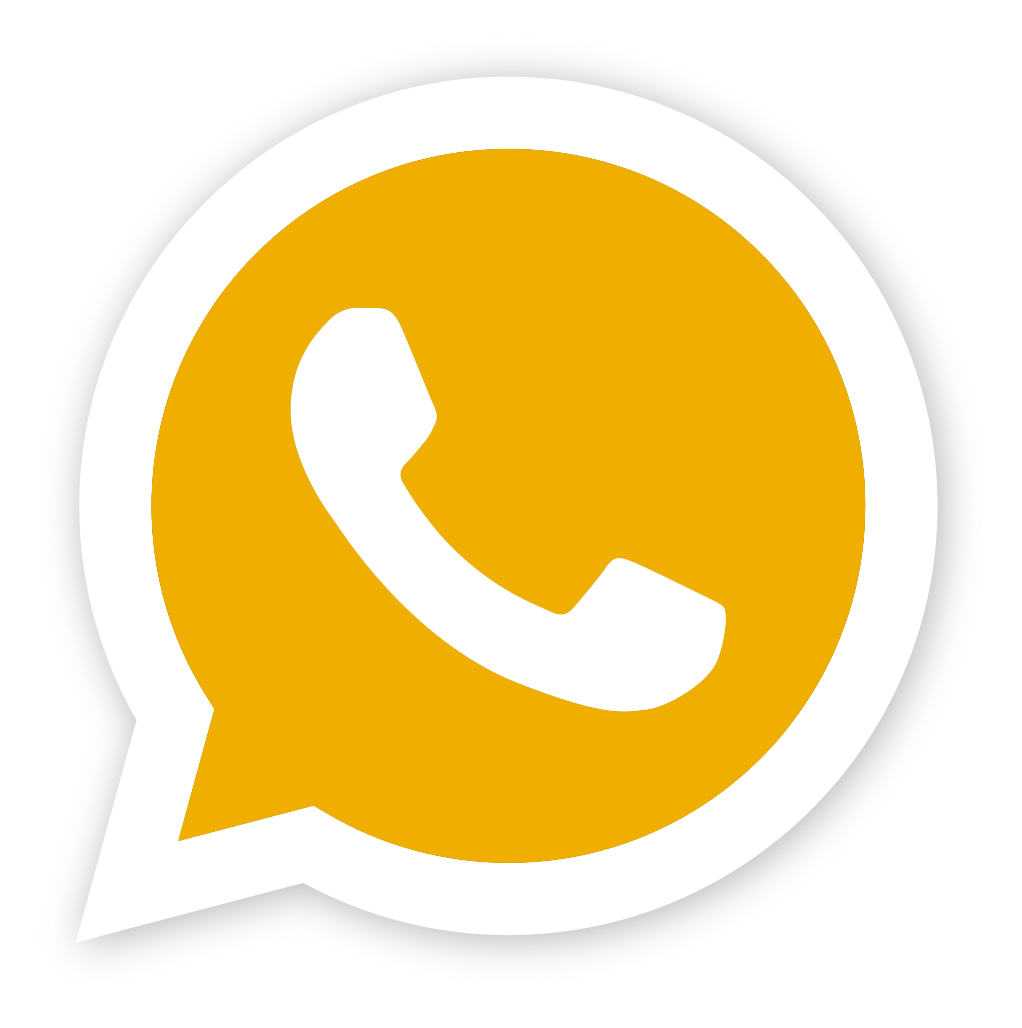
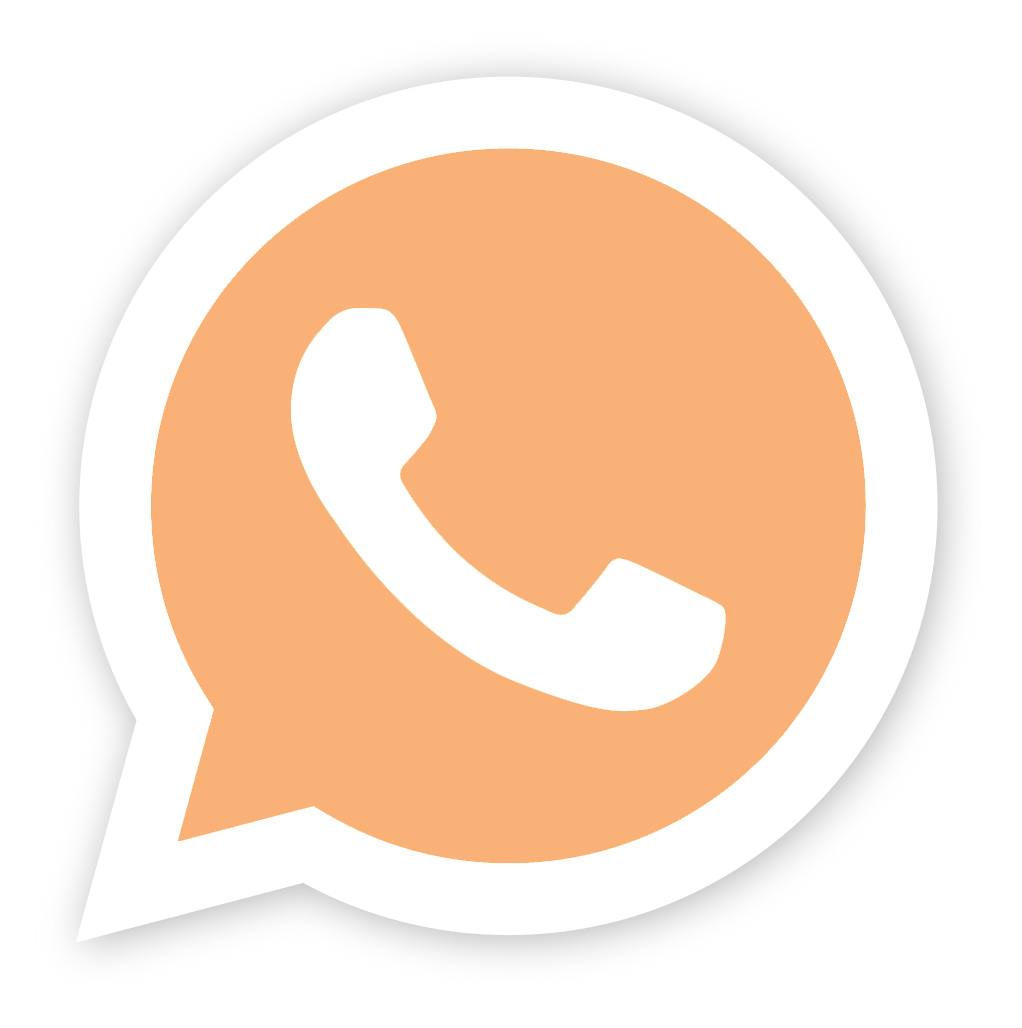
Color Pallete Updated

diff --git a/src/components/navbar/NavbarStyles.css b/src/components/navbar/NavbarStyles.css
@@ -181,7 +181,13 @@
     color: #fff;
     margin: -15px;
     transition: all 0.5s;
-    margin-top: -79px;
+    margin-top: -106px;
+  }
+
+  .navbar img {
+    width: 197px;
+    height: 62px;
+    margin-left: 23px;
   }
 }
 
@@ -263,7 +269,13 @@
     color: #fff;
     margin: -15px;
     transition: all 0.5s;
-    margin-top: -40px;
+    margin-top: -100px;
+  }
+
+  .navbar img {
+    width: 250px;
+    height: 80px;
+    margin-left: 23px;
   }
 }
 
@@ -319,6 +331,22 @@
     position: relative;
     justify-content: center;
   }
+
+  .navbar .logo {
+    display: flex;
+    align-items: center;
+    color: #fff;
+    margin: -15px;
+    transition: all 0.5s;
+    margin-top: -100px;
+    margin-left: 128px;
+  }
+
+  .navbar img {
+    width: 200px;
+    height: 61px;
+    margin-left: 52px;
+  }
 }
 
 @media screen and (min-width: 700px) and (max-width: 802px) {
@@ -372,6 +400,22 @@
     transition: all 0.5s;
     position: relative;
     justify-content: center;
+  }
+
+  .navbar .logo {
+    display: flex;
+    align-items: center;
+    color: #fff;
+    margin: -15px;
+    transition: all 0.5s;
+    margin-top: -105px;
+    margin-left: 128px;
+  }
+
+  .navbar img {
+    width: 200px;
+    height: 61px;
+    margin-left: 93px;
   }
 }
 
@@ -428,6 +472,21 @@
     position: relative;
     justify-content: center;
   }
+
+  .navbar .logo {
+    display: flex;
+    align-items: center;
+    color: #fff;
+    margin: -15px;
+    transition: all 0.5s;
+    margin-top: 28px;
+  }
+
+  .navbar img {
+    width: 250px;
+    height: 80px;
+    margin-left: 23px;
+  }
 }
 
 @media screen and (min-width: 1025px) and (max-width: 1250px) {
@@ -482,6 +541,21 @@
     transition: all 0.5s;
     position: relative;
     justify-content: center;
+  }
+
+  .navbar .logo {
+    display: flex;
+    align-items: center;
+    color: #fff;
+    margin: -15px;
+    transition: all 0.5s;
+    margin-top: 28px;
+  }
+
+  .navbar img {
+    width: 294px;
+    height: 87px;
+    margin-left: 40px;
   }
 }
 

diff --git a/src/components/proposta/PropostaStyles.css b/src/components/proposta/PropostaStyles.css
@@ -104,8 +104,8 @@
     font-family: "Roboto", sans-serif;
     padding: 0.7rem 1.5rem;
     margin: 1rem 0;
-    background-color: #dfac1c;
-    border: 1px solid #dfac1c;
+    background-color: #e7af7a;
+    border: 1px solid #e7af7a;
     color: #f8f8f8;
     font-size: 1.2rem;
     font-weight: 600;
@@ -169,8 +169,8 @@
     font-family: "Roboto", sans-serif;
     padding: 0.7rem 1.5rem;
     margin: 1rem 0;
-    background-color: #dfac1c;
-    border: 1px solid #dfac1c;
+    background-color: #e7af7a;
+    border: 1px solid #e7af7a;
     color: #f8f8f8;
     font-size: 1.2rem;
     font-weight: 600;
@@ -234,8 +234,8 @@
     font-family: "Roboto", sans-serif;
     padding: 0.7rem 1.5rem;
     margin: 1rem 0;
-    background-color: #dfac1c;
-    border: 1px solid #dfac1c;
+    background-color: #e7af7a;
+    border: 1px solid #e7af7a;
     color: #f8f8f8;
     font-size: 1.2rem;
     font-weight: 600;
@@ -299,8 +299,8 @@
     font-family: "Roboto", sans-serif;
     padding: 0.7rem 1.5rem;
     margin: 1rem 0;
-    background-color: #dfac1c;
-    border: 1px solid #dfac1c;
+    background-color: #e7af7a;
+    border: 1px solid #e7af7a;
     color: #f8f8f8;
     font-size: 1.2rem;
     font-weight: 600;
@@ -364,8 +364,8 @@
     font-family: "Roboto", sans-serif;
     padding: 0.7rem 1.5rem;
     margin: 1rem 0;
-    background-color: #dfac1c;
-    border: 1px solid #dfac1c;
+    background-color: #e7af7a;
+    border: 1px solid #e7af7a;
     color: #f8f8f8;
     font-size: 1.2rem;
     font-weight: 600;
@@ -429,8 +429,8 @@
     font-family: "Roboto", sans-serif;
     padding: 0.7rem 1.5rem;
     margin: 1rem 0;
-    background-color: #dfac1c;
-    border: 1px solid #dfac1c;
+    background-color: #e7af7a;
+    border: 1px solid #e7af7a;
     color: #f8f8f8;
     font-size: 1.2rem;
     font-weight: 600;

diff --git a/src/components/navbar/Navbar.js b/src/components/navbar/Navbar.js
@@ -1,6 +1,7 @@
 import React, { useState } from 'react'
 import menuicon from '../../assets/menu.png'
 import './NavbarStyles.css'
+import mainLogo from '../../assets/Logotipo_Metajuris.png'
 
 import { Link } from 'react-router-dom'
 
@@ -13,9 +14,7 @@ const Navbar = () => {
         <div name='top' className='navbar'>
             <div className="container">
                 <div className="logo">
-                    <h1 className='mainTitle'>METAJURIS</h1>
-                    <div class="mainLine"></div>
-                    <h3 className='mainSubtitle'>ADVOCACIA E CONSULTORIA</h3>
+                    <img width="400" height="110" src={mainLogo} alt="Main Logo"></img>
                 </div>
 
                 <ul className={nav ? 'nav-menu active' : 'nav-menu'}>

diff --git a/src/index.css b/src/index.css
@@ -6,7 +6,7 @@
 }
 
 span {
-  color: #dfac1c;
+  color: #e7af7a;
   transition: all 0.5s;
 }
 
@@ -72,8 +72,8 @@ button {
   font-family: "Roboto", sans-serif;
   padding: 0.7rem 1.5rem;
   margin: 1rem 0;
-  background-color: #dfac1c;
-  border: 1px solid #dfac1c;
+  background-color: #e7af7a;
+  border: 1px solid #e7af7a;
   color: #f8f8f8;
   font-size: 1.2rem;
   font-weight: 600;

diff --git a/src/components/whatsappButton/whatsappButtonStyles.css b/src/components/whatsappButton/whatsappButtonStyles.css
@@ -1,5 +1,5 @@
 .btn-whatsapp-pulse {
-  background: #dfac1c;
+  background: #e7af7a;
   color: white;
   position: fixed;
   bottom: 20px;
@@ -22,7 +22,7 @@
 
 @keyframes pulse {
   0% {
-    box-shadow: 0 0 0 0 #dfac1c;
+    box-shadow: 0 0 0 0 #e7af7a;
   }
 
   80% {

diff --git a/src/components/hero/HeroStyles.css b/src/components/hero/HeroStyles.css
@@ -38,7 +38,7 @@
 }
 
 .spanGold {
-  color: #dfac1c;
+  color: #e7af7a;
   transition: all 0.5s;
 }
 
